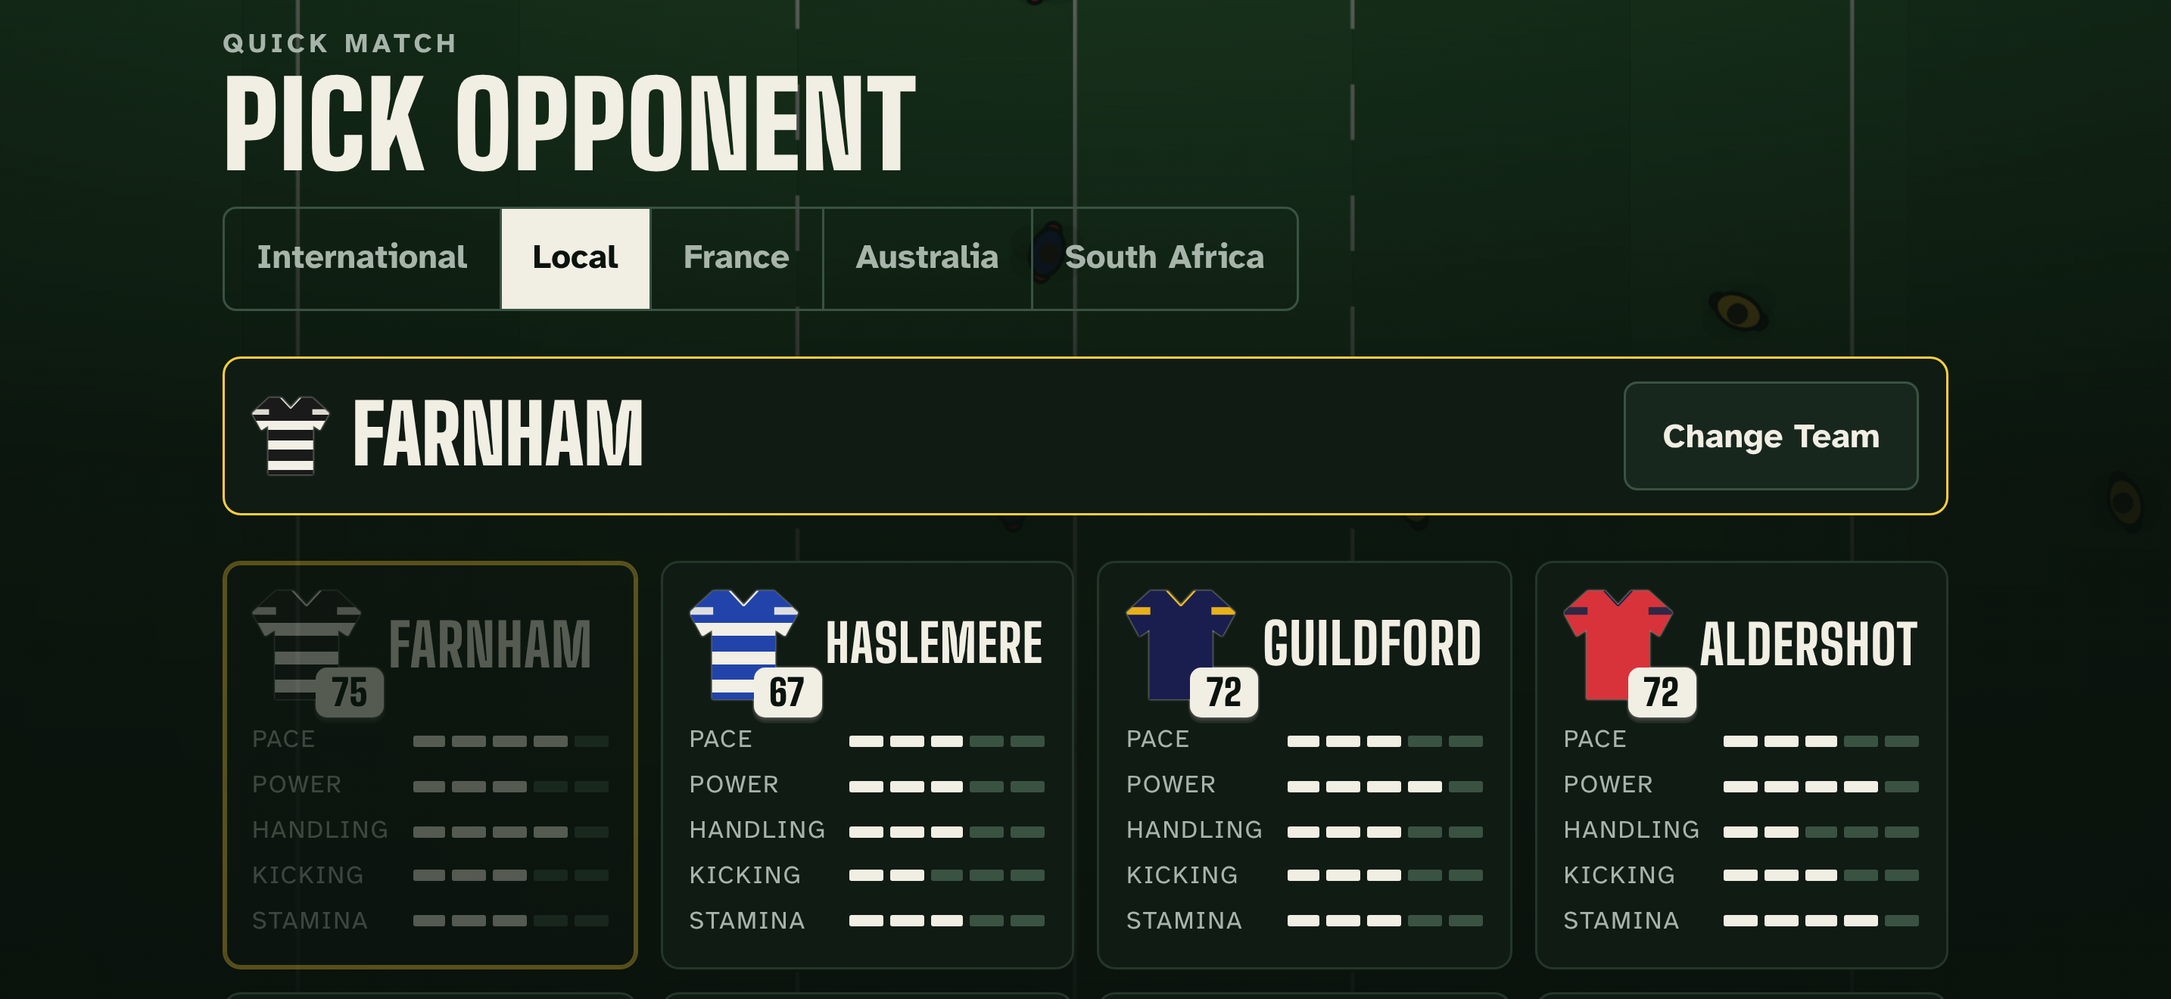
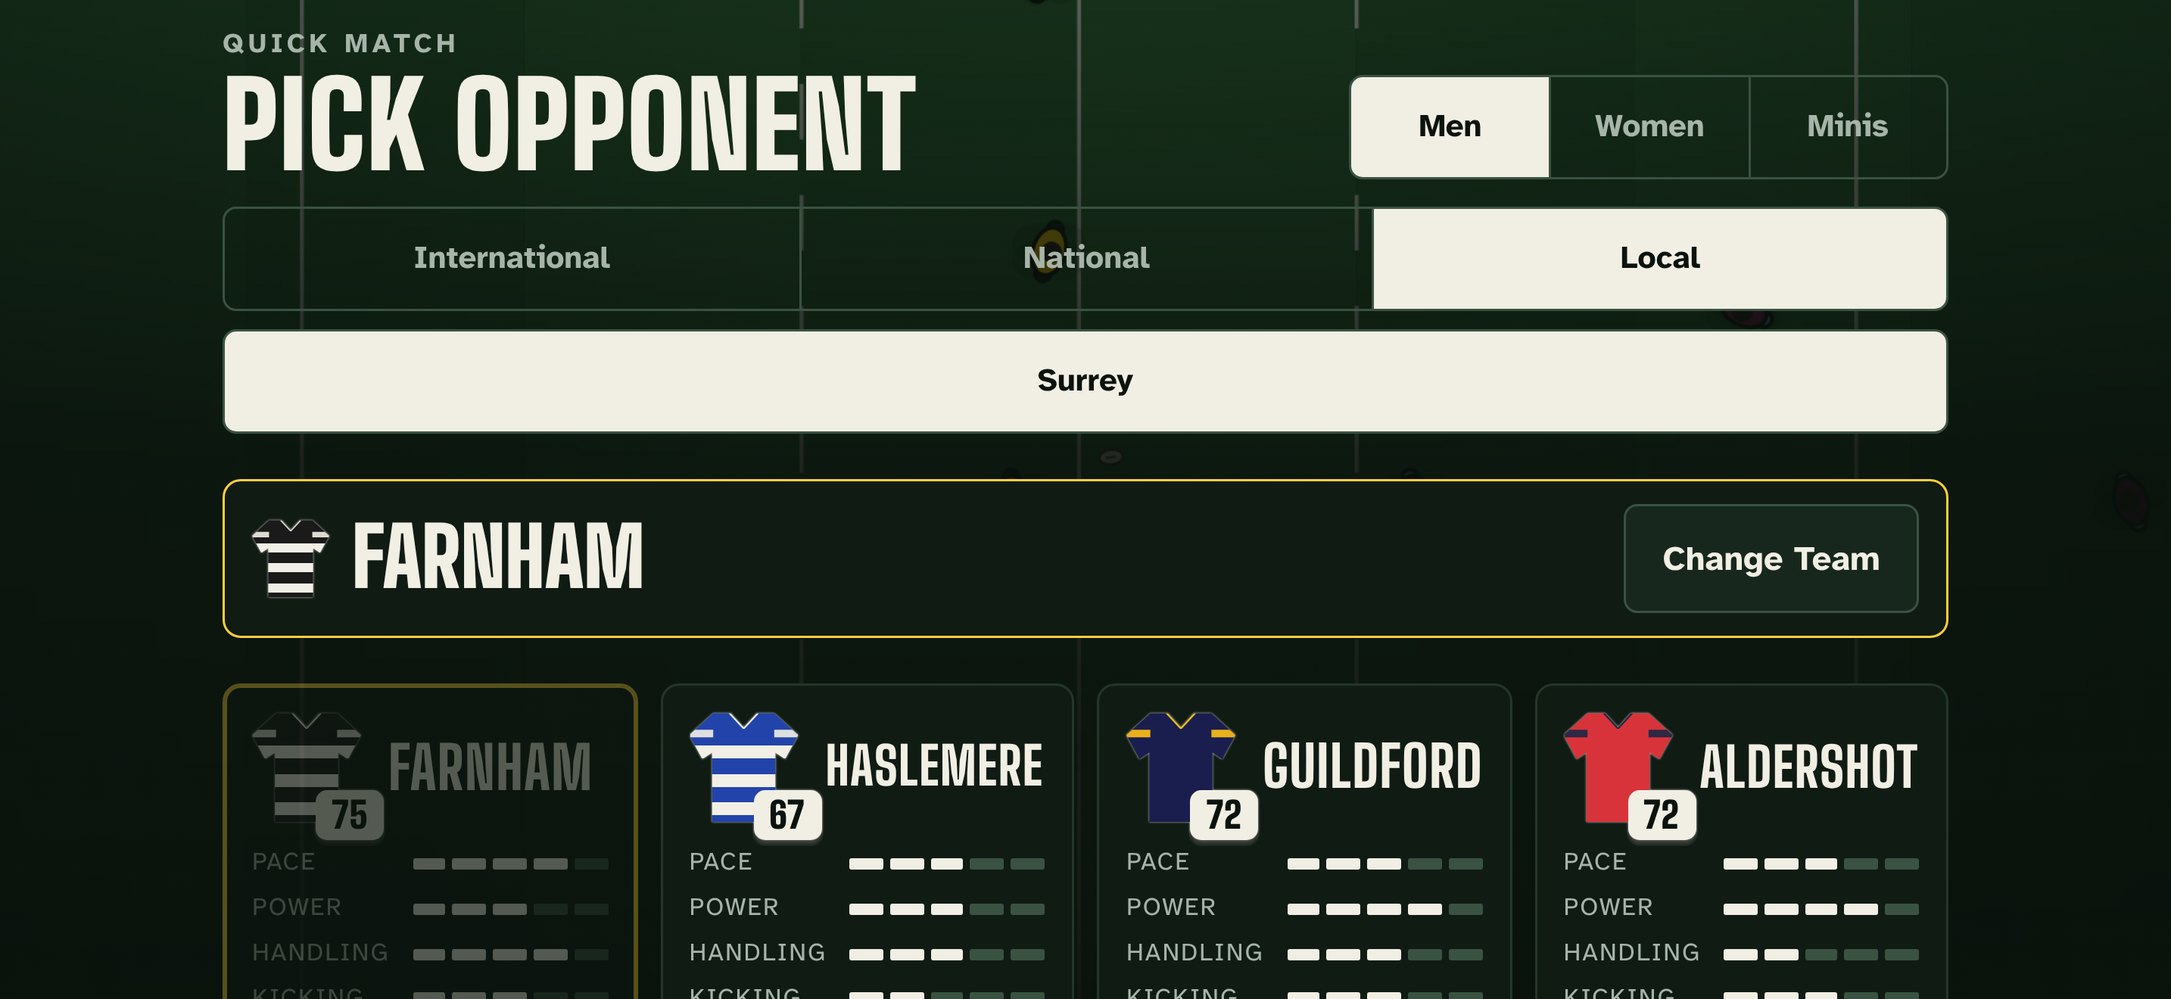
Try Line Rugby: a nation's championship is its own six, Play as names the category
Review fixes on the team hierarchy:
- A Championship started from International drew five random sides from the
  twelve, so the Six Nations (and the Triple Crown) almost never came up. A
  nation now plays the rest of its six, as Career's International stage does:
  the Six Nations, or New Zealand, South Africa, Australia, Argentina, Fiji
  and Japan. A team you made still gets five of the twelve.
- Play as Farnham named the men's side while starting the category's: it now
  reads Play as Farnham Women (or Minis).
- 06-teams.png re-shot in all three store sets to show the new team screen.

teams.mjs: every nation's championship through the team screen, England's
Triple Crown from it, a made team on International, and the Play as label.

Claude-Session: https://claude.ai/code/session_01HebaiwnScpX3pjh7SybkWw

diff --git a/trylinerugby/sw.js b/trylinerugby/sw.js
@@ -1,8 +1,8 @@
 // Generated as sw.js by tools/build.mjs; keep this source out of the game bundle.
 'use strict';
-const VERSION = '264583dfc24f97dba67cdc62';
+const VERSION = '76ddded66f6b2dc1517e4ab2';
 const ASSETS = ["index.html","game.js","styles.css","practice.css","manifest.webmanifest","icons/icon.svg","icons/icon-192.png","icons/icon-512.png","icons/maskable-512.png","icons/apple-touch-icon.png","fonts/fonts.css","fonts/atkinson-hyperlegible-latin-ext-400-normal.woff2","fonts/atkinson-hyperlegible-latin-400-normal.woff2","fonts/atkinson-hyperlegible-latin-ext-700-normal.woff2","fonts/atkinson-hyperlegible-latin-700-normal.woff2","fonts/big-shoulders-display-vietnamese-wght-normal.woff2","fonts/big-shoulders-display-latin-ext-wght-normal.woff2","fonts/big-shoulders-display-latin-wght-normal.woff2"];
[2 lines of base64/hex data omitted]
 const SCOPE = new URL(self.registration.scope);
 const CACHE_PREFIX = 'tryline-shell-' + encodeURIComponent(SCOPE.pathname) + '-';
 const CACHE_NAME = CACHE_PREFIX + VERSION;

diff --git a/trylinerugby/game.js b/trylinerugby/game.js
@@ -6477,7 +6477,7 @@ function renderTeams() {
   $('t-default').hidden = quick || pair || pool !== (pickMode === 'champ' ? storeHomePool() : 'sur');
   $('t-back').textContent = pair ? 'Back to Players' : 'Back to Menu';
   navOnly = pair ? p : null;
-  $('t-default').textContent = 'Play as ' + storeHomeTeam().name;
+  $('t-default').textContent = 'Play as ' + catSide(storeHomeTeam(), settings.cat).name;   // the side it starts: Farnham Women on Women
   teamList = [...poolTeams(pool), ...custom];              // My League: src/import.js
   if (pickMode === 'champ') teamList = storeFirst(teamList);   // the Super Fan's club first (src/store.js)
   let html = teamList.map(teamCard).join('');
@@ -6499,7 +6499,11 @@ function fitNames() {
     while (el.scrollWidth > el.clientWidth + 0.5 && px > 13) { px -= 1; el.style.fontSize = px + 'px'; }
   }
 }
-/* A championship is your team and five others from the list on screen. Men | Women | Minis names every side of it, or both of a match. */
+/* A championship is your team and five others from the list on screen. A nation's are the rest of its six, as Career's International
+   stage draws them (NATIONS in sixes): the Six Nations, so the Triple Crown is still there to win, or New Zealand, South Africa,
+   Australia, Argentina, Fiji and Japan. A team you made, on International, gets five of the twelve. Men | Women | Minis names every
+   side of it, or both of a match. */
+const champFrom = (pool, t) => { const g = NATIONS.indexOf(t); return g < 0 ? poolTeams(pool) : NATIONS.slice(g - g % 6, g - g % 6 + 6); };
 function pickTeam(t) {
   if (pickMode === 'two') {                                  // Player 1 changing his team comes back to Player 2's pick; Player 2's pick starts the match
     if (twoSel.picking === 0) { twoSel.teams[0] = t; twoSel.picking = 1; renderTeams(); $('s-teams').scrollTop = 0; return; }
@@ -6507,7 +6511,7 @@ function pickTeam(t) {
   }
   if (pickMode === 'champ') {
     const pool = teamPool(), cat = settings.cat;
-    const others = pool === IMPORT_POOL ? importOthers(t) : shuffle(poolTeams(pool).filter(o => keyOf(o) !== keyOf(t)));
+    const others = pool === IMPORT_POOL ? importOthers(t) : shuffle(champFrom(pool, t).filter(o => keyOf(o) !== keyOf(t)));
     newChamp(catSide(t, cat), others.slice(0, 5).map(o => catSide(o, cat))); renderHub(); showScreen('s-hub'); return;
   }
   if (quickPick == null) { quickPick = t; quickAuto = false; renderTeams(); $('s-teams').scrollTop = 0; return; }

diff --git a/trylinerugby/src/ui-menus.js b/trylinerugby/src/ui-menus.js
@@ -315,7 +315,7 @@ function renderTeams() {
   $('t-default').hidden = quick || pair || pool !== (pickMode === 'champ' ? storeHomePool() : 'sur');
   $('t-back').textContent = pair ? 'Back to Players' : 'Back to Menu';
   navOnly = pair ? p : null;
-  $('t-default').textContent = 'Play as ' + storeHomeTeam().name;
+  $('t-default').textContent = 'Play as ' + catSide(storeHomeTeam(), settings.cat).name;   // the side it starts: Farnham Women on Women
   teamList = [...poolTeams(pool), ...custom];              // My League: src/import.js
   if (pickMode === 'champ') teamList = storeFirst(teamList);   // the Super Fan's club first (src/store.js)
   let html = teamList.map(teamCard).join('');
@@ -337,7 +337,11 @@ function fitNames() {
     while (el.scrollWidth > el.clientWidth + 0.5 && px > 13) { px -= 1; el.style.fontSize = px + 'px'; }
   }
 }
-/* A championship is your team and five others from the list on screen. Men | Women | Minis names every side of it, or both of a match. */
+/* A championship is your team and five others from the list on screen. A nation's are the rest of its six, as Career's International
+   stage draws them (NATIONS in sixes): the Six Nations, so the Triple Crown is still there to win, or New Zealand, South Africa,
+   Australia, Argentina, Fiji and Japan. A team you made, on International, gets five of the twelve. Men | Women | Minis names every
+   side of it, or both of a match. */
+const champFrom = (pool, t) => { const g = NATIONS.indexOf(t); return g < 0 ? poolTeams(pool) : NATIONS.slice(g - g % 6, g - g % 6 + 6); };
 function pickTeam(t) {
   if (pickMode === 'two') {                                  // Player 1 changing his team comes back to Player 2's pick; Player 2's pick starts the match
     if (twoSel.picking === 0) { twoSel.teams[0] = t; twoSel.picking = 1; renderTeams(); $('s-teams').scrollTop = 0; return; }
@@ -345,7 +349,7 @@ function pickTeam(t) {
   }
   if (pickMode === 'champ') {
     const pool = teamPool(), cat = settings.cat;
-    const others = pool === IMPORT_POOL ? importOthers(t) : shuffle(poolTeams(pool).filter(o => keyOf(o) !== keyOf(t)));
+    const others = pool === IMPORT_POOL ? importOthers(t) : shuffle(champFrom(pool, t).filter(o => keyOf(o) !== keyOf(t)));
     newChamp(catSide(t, cat), others.slice(0, 5).map(o => catSide(o, cat))); renderHub(); showScreen('s-hub'); return;
   }
   if (quickPick == null) { quickPick = t; quickAuto = false; renderTeams(); $('s-teams').scrollTop = 0; return; }

diff --git a/trylinerugby/README.md b/trylinerugby/README.md
@@ -33,14 +33,14 @@ Tuning lives in `STAMINA` in `src/stamina.js`.
 
 The team screen picks a list in two steps: **International | National | Local**, then, under National, the country's league (**England | France | Celtic and Italy | Scotland | South Africa | Australia | New Zealand | Japan**) and, under Local, **Surrey** and **My League** once a league is imported. International is one list with nothing under it. **Men | Women | Minis** sits beside the title. Every row is equal parts; a long league name takes two lines rather than push the row past the screen (`.pools` in styles.css). National's eight take one row where eight fit (a phone held sideways, 844 wide) and two rows of four where they do not (667 wide, below 732: `#t-nat`). The lists and their names are `TEAM_TIERS`, `TEAM_LISTS` and `TEAM_CATS` in `src/data.js`, the screen `renderTeams`, `tierPick`, `poolPick` and `catPick` in `src/ui-menus.js`.
 
-- **International** is twelve: the six, in the order saved championships index into, then New Zealand (NZL), South Africa (RSA), Australia (AUS), Argentina (ARG), Fiji (FIJ) and Japan (JPN). Nation codes clash with no club's. Only England, Ireland, Scotland and Wales are home nations, so the Triple Crown is unchanged.
+- **International** is twelve: the six, in the order saved championships index into, then New Zealand (NZL), South Africa (RSA), Australia (AUS), Argentina (ARG), Fiji (FIJ) and Japan (JPN). Nation codes clash with no club's. Only England, Ireland, Scotland and Wales are home nations. A championship as a nation is the rest of its six, as Career's International stage draws them: the Six Nations for England, France, Ireland, Italy, Scotland and Wales, so the Triple Crown is unchanged, and the other six for New Zealand, South Africa, Australia, Argentina, Fiji and Japan. A team you made, on International, gets five of the twelve.
 - **National** leagues, every side by its city or region, never the club's registered name or nickname (the owner's trademark rule; Quins in Local is the deliberate exception): England 10 (Bath, Bristol, Exeter, Gloucester, Leicester, Newcastle, Northampton, Sale, London North, London West), France 14 as before, Celtic and Italy 12 (Dublin, Limerick, Belfast, Galway, Edinburgh, Glasgow, Cardiff, Swansea, Llanelli, Newport, Treviso, Parma), South Africa 7 as before, Australia 6 as before (Adelaide is still invented: Melbourne left Super Rugby in 2024 and no sixth professional side exists), New Zealand 6 (Auckland, Hamilton, Wellington, Christchurch, Dunedin, Taranaki), Japan 7 (Tokyo, Saitama, Funabashi, Aichi, Kobe, Shizuoka, Yokohama). Kits follow the real clubs'; ratings are made up on the 1 to 5 scale with Stamina, no league side above a team you can make (17). Codes are unique across every list, the nations and the career's counties. Every list offers at least six sides, since a championship is your side and five from the list on screen.
 - **Scotland** is the Scottish Premiership, the top amateur club league, as it was in 2025-26 (Scottish Rugby's table): Ayr, Currie, Goldenacre (Heriot's), Myreside (Watsonians), Kelso, Giffnock (GHA), Hawick, Melrose, Anniesland (Glasgow Hawks) and Selkirk. Each goes by its town, or in Edinburgh and Glasgow by its district or ground; Edinburgh and Glasgow themselves are the professional sides and stay in Celtic and Italy, so no side is in two lists. Codes AYR CUR GOL MYR KEL GIF HAW MLR ANN SEL. Amateur sides rate below every professional side: the table's top five 13 (64), the bottom five 12 (61). Nothing from an old save lands on Scotland.
 - **Ratings follow the XV game** (the owner: "treat the hierarchy and approach as the 15s game, i.e. rankings based on international men's rugby at test level for the full rugby 15s"). The nations go in World Rugby's men's ranking as it stood on 2 November 2026 (South Africa, New Zealand, Ireland, France, England, Scotland, Australia, Argentina, Fiji, Wales, Italy, Japan), five-ability totals 24 down to 19 (96 down to 81), level only with a neighbour: South Africa and New Zealand 24, Ireland and France 23, England 22, Scotland and Australia 21 (a projection for 7 November had Australia 0.03 points ahead), Argentina and Fiji 20, Wales, Italy and Japan 19. Each keeps its style: Fiji's pace, South Africa's power, Ireland's handling and kicking. Every nation is above every club. Each league's sides follow its last completed table, from 17 (75) down to 14 (67): the Premiership 2025-26 (Northampton, Bath, Exeter and Leicester, Bristol, London North, Sale, Gloucester, London West, Newcastle), the Top 14 2025-26 (Toulouse, Montpellier, Pau, Paris, Nanterre, La Rochelle, Clermont, Bordeaux, Toulon, Castres, Lyon, Bayonne, Perpignan, Montauban), the URC 2025-26 for Celtic and Italy and South Africa's four (Glasgow, Dublin, Cape Town, Pretoria, Limerick, Cardiff, Johannesburg, Galway, then Belfast, Swansea, Durban, Edinburgh, Treviso, Llanelli, Newport, Parma, ninth down taken from a late-season table), the 2026 Currie Cup for Kimberley, Bloemfontein and Mbombela, Super Rugby Pacific 2026 for Australia and New Zealand (Wellington, Hamilton, Christchurch, Auckland, Brisbane, Canberra, Perth, Sydney, Dunedin; Melbourne, Adelaide and Taranaki under them) and League One 2025-26 for Japan (Kobe, Saitama, Funabashi, Tokyo, then Aichi, Shizuoka and Yokohama). Scotland's amateur clubs are 13 and 12 (64 and 61), below every professional side. Local keeps its ratings, which Kids and Quick Match read, so Farnham (75) is level with the top professional sides. Women and Minis are the men's ratings. The lists keep their order on screen (append only); only the ratings follow the tables.
-- **Men | Women | Minis** names the sides of the match or championship being set up (England Women, Farnham Minis) and nothing else: ratings, kit, the scoreboard code and the engine are the men's. A women's or minis side carries `cat` ('women' or 'minis') on the team objects newMatch gets and in the saves, for the drawing; a side without one is men's (`catOf`), so on Men a match gets the very teams it always did. The choice is saved (`settings.cat`; a save from before it is Men). A championship keeps the category it was started with: its six sides are saved named.
+- **Men | Women | Minis** names the sides of the match or championship being set up (England Women, Farnham Minis, and the button: Play as Farnham Women) and nothing else: ratings, kit, the scoreboard code and the engine are the men's. A women's or minis side carries `cat` ('women' or 'minis') on the team objects newMatch gets and in the saves, for the drawing; a side without one is men's (`catOf`), so on Men a match gets the very teams it always did. The choice is saved (`settings.cat`; a save from before it is Men). A championship keeps the category it was started with: its six sides are saved named.
 - **Saves.** `settings.pool` is now a list's key. A save from before the hierarchy held an index into the old row (International, Local, France, Australia, South Africa, My League) and lands where it was: 0 International, 1 Local · Surrey, 2 National · France, 3 National · Australia, 4 National · South Africa, 5 Local · My League (Surrey while no league is saved). Anything else is International, as a bad choice always was. The screen still opens on Local · Surrey (Quick Match, Two Player) or the Super Fan club's list (Championship), as before; National goes back to the league last looked at.
 
-`node tools/teams.mjs` checks the lists, the codes, the six-a-list floor, the hierarchy, every old pool value, the category's names and storage, and old saves.
+`node tools/teams.mjs` checks the lists, the codes, the six-a-list floor, the hierarchy, a nation's championship from the team screen (its own six, and England's Triple Crown), every old pool value, the category's names and storage (Play as Farnham Women included), and old saves.
 
 ## Career
 
@@ -277,7 +277,8 @@ The browser still loads only `game.js`; `src/` and the Node tools are developmen
     and **10 points to spend** on top of 1 in each ability, 5 at most in any one. The total, 14, matches the
     strongest club. You can keep up to four teams. They're saved in the browser and show in both lists.
   - **A championship is your team and five others from the list on screen.** Pick a nation and you get the Six
-    Nations. Pick a club, or your own team, and you get five random others from that list. The Triple Crown only
+    Nations (since the twelve, a nation's own six: the Six Nations, or the other six). Pick a club, or your own team, and
+    you get five random others from that list. The Triple Crown only
     counts when all four home nations are in it. A championship keeps its own copy of its six teams, so editing or
     deleting a team doesn't change one that's under way.
   - **Farnham is the default** (2026-10-12). The team screen always opens on Local. Quick Match starts with Farnham

diff --git a/trylinerugby/store-listing/SCREENSHOTS.md b/trylinerugby/store-listing/SCREENSHOTS.md
@@ -26,7 +26,7 @@ The first two or three are what most people see in search, so they are play, not
 | `03-lineout.png` | Set Piece | The lineout close-up, the jumpers lifted, the Jump hint | Win the Lineout |
 | `04-goal.png` | Goal Kick | A conversion: wind, the aim arrow, the meter filling | Kick for the Posts |
 | `05-drill.png` | Training Ground | The Tackling drill's side-on close-up: Position, Height, Timing, Power, Squeeze | Learn to Tackle |
-| `06-teams.png` | Team Picker | Quick Match's Pick Opponent: your side, and the Local clubs' kits and ratings | Pick Your Opponent |
+| `06-teams.png` | Team Picker | Quick Match's Pick Opponent: International, National and Local, Men, Women and Minis, your side, and the Local clubs' kits and ratings | Pick Your Opponent |
 | `07-home.png` | Home | The home screen as a new player sees it: Quick Match, the Training Ground, Kids, Easy and Normal free, and the locks on Championship, Career and Hard | Free to Play, Unlock the Full Game |
 | `08-career.png` | Career (Full Game) | A player's card and his first season, with the Full Game owned | Full Game: From Minis to International |
 
@@ -35,7 +35,7 @@ Google Play takes at most 8 per type; the App Store takes up to 10. Upload them 
 ## Things to Know Before Uploading
 
 - **Club names show.** The team picker, the career card and the scorebug show Farnham, Haslemere, Guildford, Aldershot, Weybridge, Quins, Cobham and Guildfordians: real local clubs by name and colours (APP_STORE.md, Content Rights). If any club objects, re-shoot.
-- **The app as a new player gets it.** The shots are staged as the app with nothing bought (tools/listing-shots.mjs), so the home shows its locks and its Grown-Ups button, and the team picker is Quick Match's. Only Career, the last shot, has the Full Game owned. If captions are added, Career's says Full Game. Re-shot on 2026-11-08 after the App Review audit (they were first shot with the Full Game owned, which showed paid modes with no lock).
+- **The app as a new player gets it.** The shots are staged as the app with nothing bought (tools/listing-shots.mjs), so the home shows its locks and its Grown-Ups button, and the team picker is Quick Match's. Only Career, the last shot, has the Full Game owned. If captions are added, Career's says Full Game. Re-shot on 2026-11-08 after the App Review audit (they were first shot with the Full Game owned, which showed paid modes with no lock). `06-teams.png` was shot again in all three sets when the team screen became International | National | Local with Men | Women | Minis (`node tools/listing-shots.mjs --only ios-6.9,play-phone,play-tablet --moments teams`).
 - **iPad.** The first version is iPhone only (owner, 2026-11-08), so no iPad set is made. On a 13-inch iPad the game draws small with a lot of empty pitch; scaling the layout up is game work for a later version, and its set (2752x2064 from 1376x1032 at 2x) can be added back to `tools/listing-shots.mjs` then.
 - **Sharpness on iPhone.** The game draws its canvas at up to twice the screen's pixels, so on the 3x iPhone set the pitch is upscaled a little while the text stays sharp. The iPad and Play sets are at 2x and fully sharp.
 - **No device frames and no captions.** Both are allowed; plain shots are honest and quick to redo. If captions are added, keep them Title Case, short and true to the shot (Apple rejects screenshots that show what the app does not do), and never say who the app is for by age: guideline 2.3.8 keeps "For Kids" and "For Children" for Apple's Kids Category, and this app is in Sports. `node tools/listing.mjs` checks the caption ideas above.

diff --git a/trylinerugby/tools/CHECKS.md b/trylinerugby/tools/CHECKS.md
@@ -20,7 +20,7 @@ For the existing wider gameplay and balance checks:
 node tools/check.mjs --full
 ```
 
-This also runs contact, duels, goal kicks, movement, passing, teams (the lists, Scotland's clubs among them, the ratings' XV order, International | National | Local, Men | Women | Minis and old saves' lists) and set pieces. Some of these contain small shared-control regression cases; the dedicated two-player suite is separate.
+This also runs contact, duels, goal kicks, movement, passing, teams (the lists, Scotland's clubs among them, the ratings' XV order, International | National | Local, a nation's championship being its own six, Men | Women | Minis and old saves' lists) and set pieces. Some of these contain small shared-control regression cases; the dedicated two-player suite is separate.
 
 The Kids rating's calibration, `node tools/kidbots.mjs at` and `settle` (scripted 6, 7 to 8 and 10 year olds; see the Kids section of README.md), runs for minutes and is never part of `check.mjs`. `node tools/kids.mjs`, in the default gate, checks the rating's scale, update rule, save and gating directly.
 
